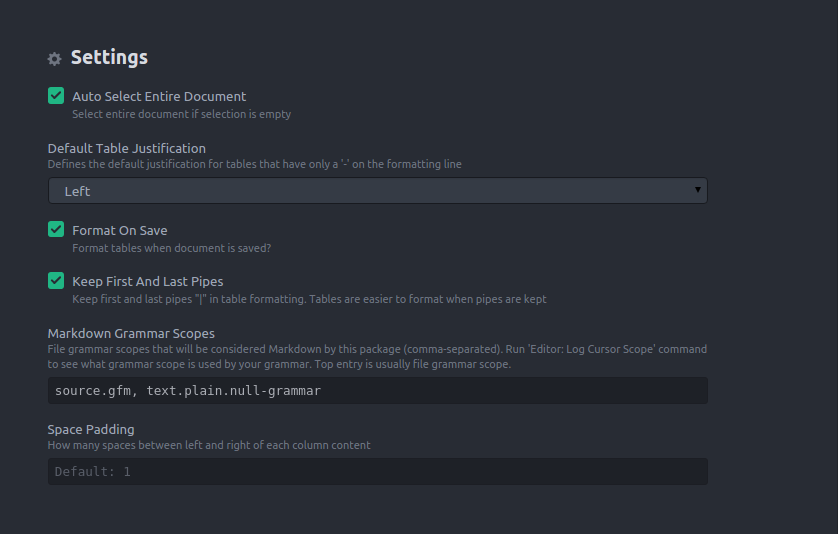
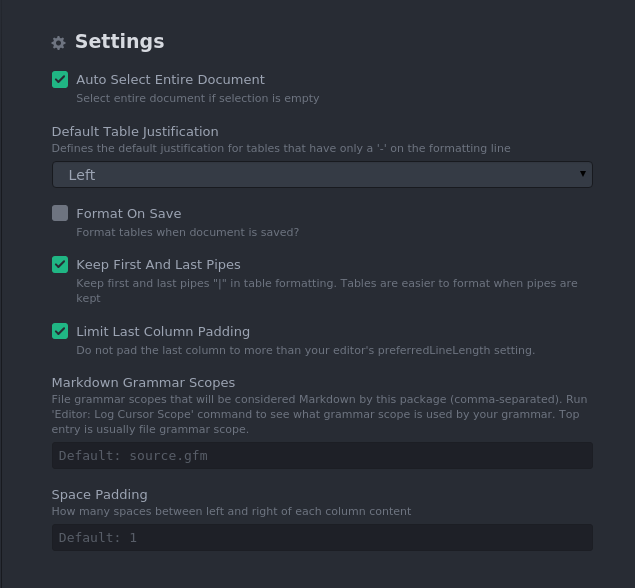
added limitLastColumnPadding

diff --git a/CHANGELOG.md b/CHANGELOG.md
@@ -1,3 +1,6 @@
+## 2.8.4
+* Added limitLastColumnPadding setting to generate less padding for tables where the last column runs long
+
 ## 2.8.3
 * [Fix] #30 regression
 
